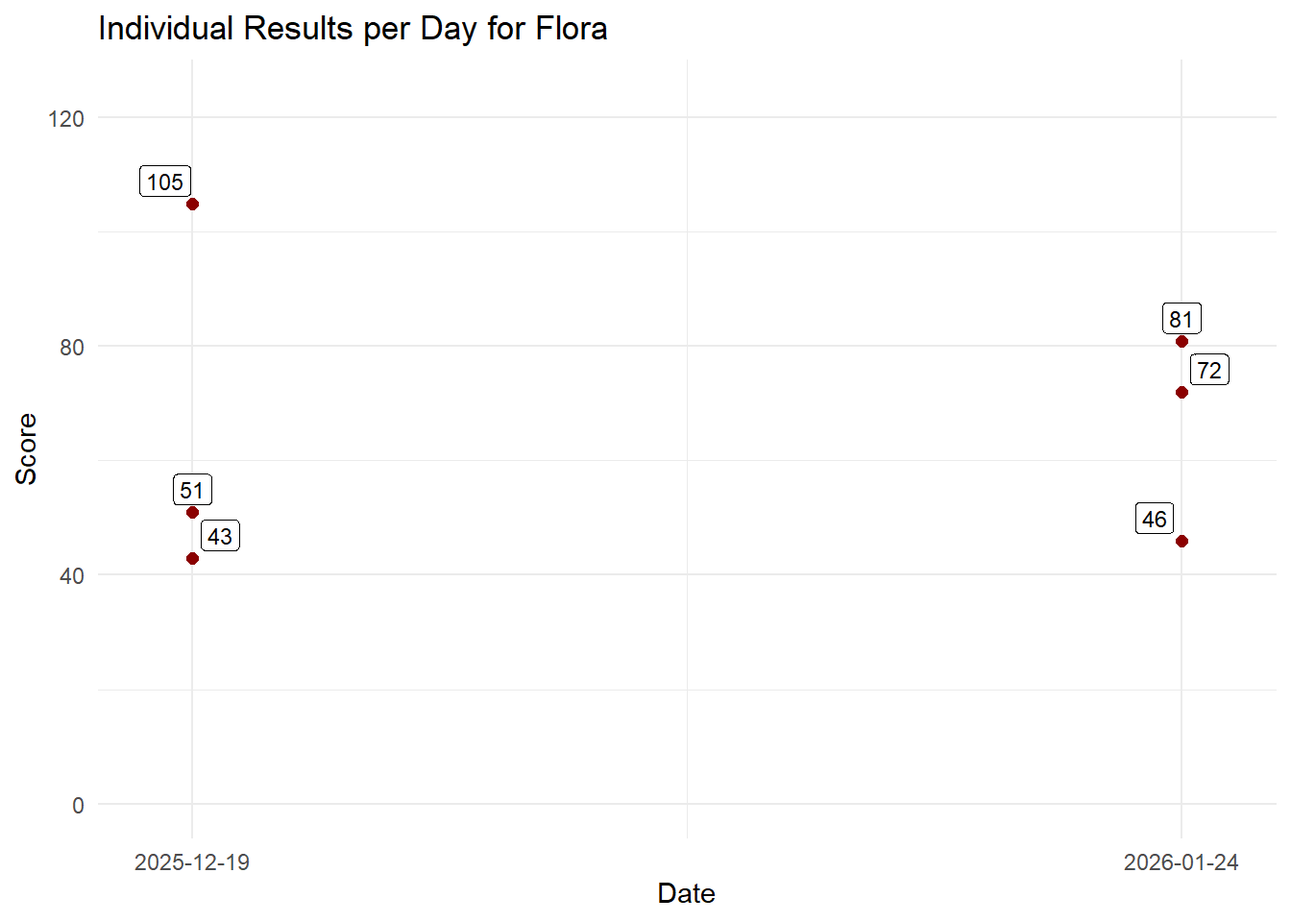
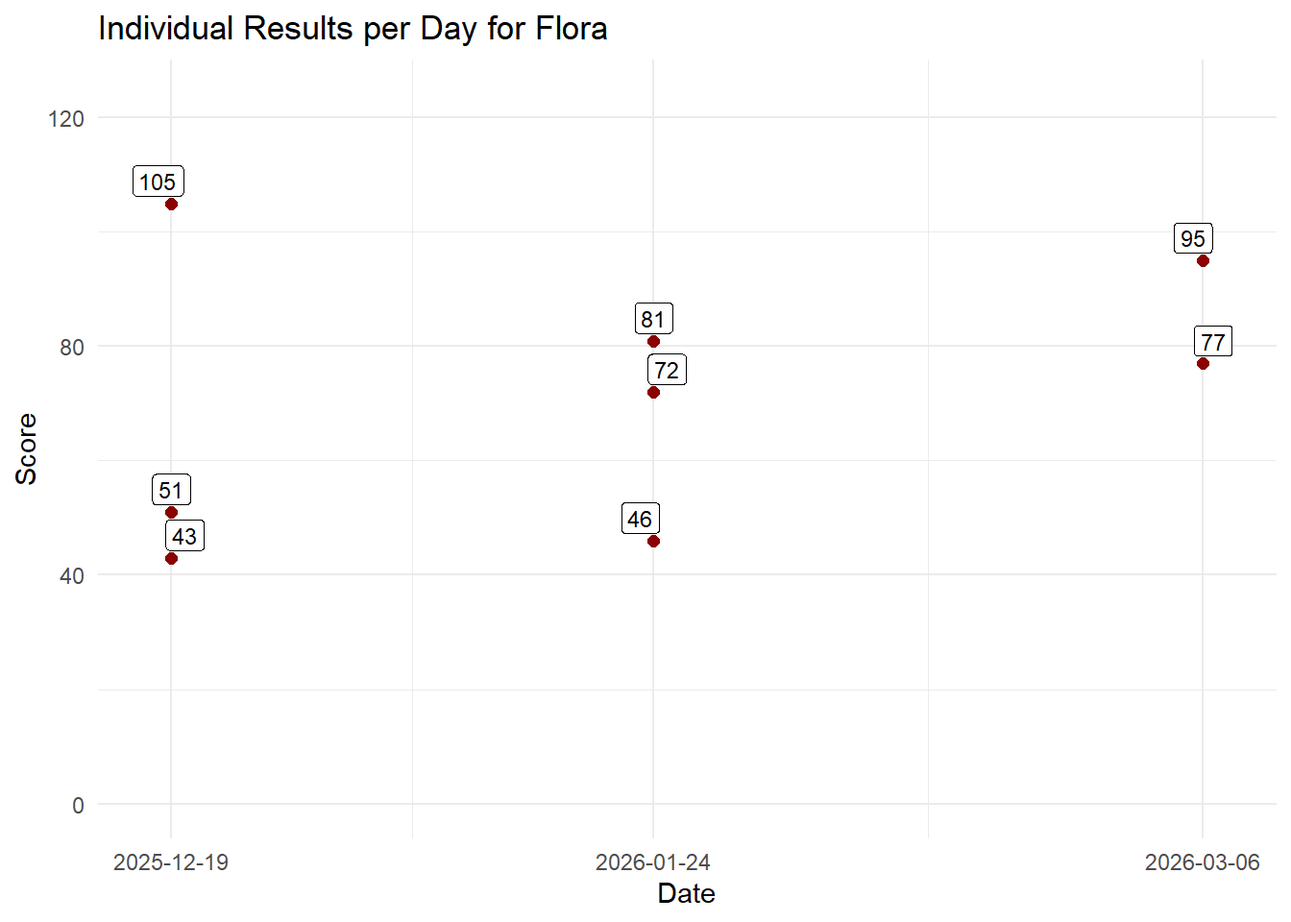
updated with results from march 3rd 2026

diff --git a/docs/sessions.html b/docs/sessions.html
@@ -136,6 +136,10 @@ ul.task-list li input[type="checkbox"] {
 <span class="menu-text">Julia</span></a>
   </li>  
   <li class="nav-item">
+    <a class="nav-link" href="./players/maria.html"> 
+<span class="menu-text">Maria</span></a>
+  </li>  
+  <li class="nav-item">
     <a class="nav-link" href="./players/niko.html"> 
 <span class="menu-text">Niko</span></a>
   </li>  
@@ -175,29 +179,38 @@ ul.task-list li input[type="checkbox"] {
 
 <p>The sessions are sorted from new to old.</p>
 <section id="section" class="level2">
-<h2 class="anchored" data-anchor-id="section">07.02.2026</h2>
+<h2 class="anchored" data-anchor-id="section">06.03.2026</h2>
 <div class="cell">
 <div class="cell-output-display">
-<div class="datatables html-widget html-fill-item" id="htmlwidget-451b7fa52ce0093a3e28" style="width:100%;height:auto;"></div>
-<script type="application/json" data-for="htmlwidget-451b7fa52ce0093a3e28">{"x":{"filter":"none","vertical":false,"data":[["1","2","3","4"],["Niko","Anatolii","Julia","Daniel"],[81,71,63,49],[124,74,68,82],[82,81,70,59],[95.7,75.3,67,63.3],[24.5,5.1,3.6,16.9],[2,2,0,0]],"container":"<table class=\"display\">\n  <thead>\n    <tr>\n      <th> <\/th>\n      <th>Player<\/th>\n      <th>Round 1<\/th>\n      <th>Round 2<\/th>\n      <th>Round 3<\/th>\n      <th>Average Score<\/th>\n      <th>Score Standard Deviation<\/th>\n      <th>Strikes<\/th>\n    <\/tr>\n  <\/thead>\n<\/table>","options":{"dom":"t","paging":false,"searching":false,"info":false,"lengthChange":false,"columnDefs":[{"orderSequence":["desc","asc"],"targets":"_all"},{"className":"dt-right","targets":[2,3,4,5,6,7]},{"orderable":false,"targets":0},{"name":" ","targets":0},{"name":"Player","targets":1},{"name":"Round 1","targets":2},{"name":"Round 2","targets":3},{"name":"Round 3","targets":4},{"name":"Average Score","targets":5},{"name":"Score Standard Deviation","targets":6},{"name":"Strikes","targets":7}],"order":[],"autoWidth":false,"orderClasses":false}},"evals":[],"jsHooks":[]}</script>
+<div class="datatables html-widget html-fill-item" id="htmlwidget-83ca4fffd3bae11e1f9b" style="width:100%;height:auto;"></div>
+<script type="application/json" data-for="htmlwidget-83ca4fffd3bae11e1f9b">{"x":{"filter":"none","vertical":false,"data":[["1","2","3","4"],["Flora","Julia","Daniel","Maria"],[95,45,57,58],[77,64,50,38],[86,54.5,53.5,48],[12.7,13.4,4.9,14.1],[2,0,1,0]],"container":"<table class=\"display\">\n  <thead>\n    <tr>\n      <th> <\/th>\n      <th>Player<\/th>\n      <th>Round 1<\/th>\n      <th>Round 2<\/th>\n      <th>Average Score<\/th>\n      <th>Score Standard Deviation<\/th>\n      <th>Strikes<\/th>\n    <\/tr>\n  <\/thead>\n<\/table>","options":{"dom":"t","paging":false,"searching":false,"info":false,"lengthChange":false,"columnDefs":[{"orderSequence":["desc","asc"],"targets":"_all"},{"className":"dt-right","targets":[2,3,4,5,6]},{"orderable":false,"targets":0},{"name":" ","targets":0},{"name":"Player","targets":1},{"name":"Round 1","targets":2},{"name":"Round 2","targets":3},{"name":"Average Score","targets":4},{"name":"Score Standard Deviation","targets":5},{"name":"Strikes","targets":6}],"order":[],"autoWidth":false,"orderClasses":false}},"evals":[],"jsHooks":[]}</script>
 </div>
 </div>
 </section>
 <section id="section-1" class="level2">
-<h2 class="anchored" data-anchor-id="section-1">24.01.2026</h2>
+<h2 class="anchored" data-anchor-id="section-1">07.02.2026</h2>
 <div class="cell">
 <div class="cell-output-display">
-<div class="datatables html-widget html-fill-item" id="htmlwidget-5ad655e97ea06177efaf" style="width:100%;height:auto;"></div>
-<script type="application/json" data-for="htmlwidget-5ad655e97ea06177efaf">{"x":{"filter":"none","vertical":false,"data":[["1","2","3","4","5"],["Niko","Anatolii","Daniel","Julia","Flora"],[73,73,82,65,46],[101,70,54,81,81],[86,71,75,64,72],[86.7,71.3,70.3,70,66.3],[14,1.5,14.6,9.5,18.2],[2,2,0,3,1]],"container":"<table class=\"display\">\n  <thead>\n    <tr>\n      <th> <\/th>\n      <th>Player<\/th>\n      <th>Round 1<\/th>\n      <th>Round 2<\/th>\n      <th>Round 3<\/th>\n      <th>Average Score<\/th>\n      <th>Score Standard Deviation<\/th>\n      <th>Strikes<\/th>\n    <\/tr>\n  <\/thead>\n<\/table>","options":{"dom":"t","paging":false,"searching":false,"info":false,"lengthChange":false,"columnDefs":[{"orderSequence":["desc","asc"],"targets":"_all"},{"className":"dt-right","targets":[2,3,4,5,6,7]},{"orderable":false,"targets":0},{"name":" ","targets":0},{"name":"Player","targets":1},{"name":"Round 1","targets":2},{"name":"Round 2","targets":3},{"name":"Round 3","targets":4},{"name":"Average Score","targets":5},{"name":"Score Standard Deviation","targets":6},{"name":"Strikes","targets":7}],"order":[],"autoWidth":false,"orderClasses":false}},"evals":[],"jsHooks":[]}</script>
+<div class="datatables html-widget html-fill-item" id="htmlwidget-dc3dbd8230154e09d8fd" style="width:100%;height:auto;"></div>
+<script type="application/json" data-for="htmlwidget-dc3dbd8230154e09d8fd">{"x":{"filter":"none","vertical":false,"data":[["1","2","3","4"],["Niko","Anatolii","Julia","Daniel"],[81,71,63,49],[124,74,68,82],[82,81,70,59],[95.7,75.3,67,63.3],[24.5,5.1,3.6,16.9],[2,2,0,0]],"container":"<table class=\"display\">\n  <thead>\n    <tr>\n      <th> <\/th>\n      <th>Player<\/th>\n      <th>Round 1<\/th>\n      <th>Round 2<\/th>\n      <th>Round 3<\/th>\n      <th>Average Score<\/th>\n      <th>Score Standard Deviation<\/th>\n      <th>Strikes<\/th>\n    <\/tr>\n  <\/thead>\n<\/table>","options":{"dom":"t","paging":false,"searching":false,"info":false,"lengthChange":false,"columnDefs":[{"orderSequence":["desc","asc"],"targets":"_all"},{"className":"dt-right","targets":[2,3,4,5,6,7]},{"orderable":false,"targets":0},{"name":" ","targets":0},{"name":"Player","targets":1},{"name":"Round 1","targets":2},{"name":"Round 2","targets":3},{"name":"Round 3","targets":4},{"name":"Average Score","targets":5},{"name":"Score Standard Deviation","targets":6},{"name":"Strikes","targets":7}],"order":[],"autoWidth":false,"orderClasses":false}},"evals":[],"jsHooks":[]}</script>
 </div>
 </div>
 </section>
 <section id="section-2" class="level2">
-<h2 class="anchored" data-anchor-id="section-2">19.12.2025</h2>
+<h2 class="anchored" data-anchor-id="section-2">24.01.2026</h2>
 <div class="cell">
 <div class="cell-output-display">
-<div class="datatables html-widget html-fill-item" id="htmlwidget-06abafb8ae99760b7fad" style="width:100%;height:auto;"></div>
-<script type="application/json" data-for="htmlwidget-06abafb8ae99760b7fad">{"x":{"filter":"none","vertical":false,"data":[["1","2","3","4","5"],["Niko","Anatolii","Julia","Flora","Daniel"],[73,61,66,105,48],[97,79,79,51,77],[90,101,79,43,49],[86.7,80.3,74.7,66.3,58],[12.3,20,7.5,33.7,16.5],[3,2,0,2,1]],"container":"<table class=\"display\">\n  <thead>\n    <tr>\n      <th> <\/th>\n      <th>Player<\/th>\n      <th>Round 1<\/th>\n      <th>Round 2<\/th>\n      <th>Round 3<\/th>\n      <th>Average Score<\/th>\n      <th>Score Standard Deviation<\/th>\n      <th>Strikes<\/th>\n    <\/tr>\n  <\/thead>\n<\/table>","options":{"dom":"t","paging":false,"searching":false,"info":false,"lengthChange":false,"columnDefs":[{"orderSequence":["desc","asc"],"targets":"_all"},{"className":"dt-right","targets":[2,3,4,5,6,7]},{"orderable":false,"targets":0},{"name":" ","targets":0},{"name":"Player","targets":1},{"name":"Round 1","targets":2},{"name":"Round 2","targets":3},{"name":"Round 3","targets":4},{"name":"Average Score","targets":5},{"name":"Score Standard Deviation","targets":6},{"name":"Strikes","targets":7}],"order":[],"autoWidth":false,"orderClasses":false}},"evals":[],"jsHooks":[]}</script>
+<div class="datatables html-widget html-fill-item" id="htmlwidget-20107ad24300d20d2195" style="width:100%;height:auto;"></div>
+<script type="application/json" data-for="htmlwidget-20107ad24300d20d2195">{"x":{"filter":"none","vertical":false,"data":[["1","2","3","4","5"],["Niko","Anatolii","Daniel","Julia","Flora"],[73,73,82,65,46],[101,70,54,81,81],[86,71,75,64,72],[86.7,71.3,70.3,70,66.3],[14,1.5,14.6,9.5,18.2],[2,2,0,3,1]],"container":"<table class=\"display\">\n  <thead>\n    <tr>\n      <th> <\/th>\n      <th>Player<\/th>\n      <th>Round 1<\/th>\n      <th>Round 2<\/th>\n      <th>Round 3<\/th>\n      <th>Average Score<\/th>\n      <th>Score Standard Deviation<\/th>\n      <th>Strikes<\/th>\n    <\/tr>\n  <\/thead>\n<\/table>","options":{"dom":"t","paging":false,"searching":false,"info":false,"lengthChange":false,"columnDefs":[{"orderSequence":["desc","asc"],"targets":"_all"},{"className":"dt-right","targets":[2,3,4,5,6,7]},{"orderable":false,"targets":0},{"name":" ","targets":0},{"name":"Player","targets":1},{"name":"Round 1","targets":2},{"name":"Round 2","targets":3},{"name":"Round 3","targets":4},{"name":"Average Score","targets":5},{"name":"Score Standard Deviation","targets":6},{"name":"Strikes","targets":7}],"order":[],"autoWidth":false,"orderClasses":false}},"evals":[],"jsHooks":[]}</script>
+</div>
+</div>
+</section>
+<section id="section-3" class="level2">
+<h2 class="anchored" data-anchor-id="section-3">19.12.2025</h2>
+<div class="cell">
+<div class="cell-output-display">
+<div class="datatables html-widget html-fill-item" id="htmlwidget-5a49792ca533fc8ac178" style="width:100%;height:auto;"></div>
+<script type="application/json" data-for="htmlwidget-5a49792ca533fc8ac178">{"x":{"filter":"none","vertical":false,"data":[["1","2","3","4","5"],["Niko","Anatolii","Julia","Flora","Daniel"],[73,61,66,105,48],[97,79,79,51,77],[90,101,79,43,49],[86.7,80.3,74.7,66.3,58],[12.3,20,7.5,33.7,16.5],[3,2,0,2,1]],"container":"<table class=\"display\">\n  <thead>\n    <tr>\n      <th> <\/th>\n      <th>Player<\/th>\n      <th>Round 1<\/th>\n      <th>Round 2<\/th>\n      <th>Round 3<\/th>\n      <th>Average Score<\/th>\n      <th>Score Standard Deviation<\/th>\n      <th>Strikes<\/th>\n    <\/tr>\n  <\/thead>\n<\/table>","options":{"dom":"t","paging":false,"searching":false,"info":false,"lengthChange":false,"columnDefs":[{"orderSequence":["desc","asc"],"targets":"_all"},{"className":"dt-right","targets":[2,3,4,5,6,7]},{"orderable":false,"targets":0},{"name":" ","targets":0},{"name":"Player","targets":1},{"name":"Round 1","targets":2},{"name":"Round 2","targets":3},{"name":"Round 3","targets":4},{"name":"Average Score","targets":5},{"name":"Score Standard Deviation","targets":6},{"name":"Strikes","targets":7}],"order":[],"autoWidth":false,"orderClasses":false}},"evals":[],"jsHooks":[]}</script>
 </div>
 </div>
 

diff --git a/docs/players/maria.html b/docs/players/maria.html
@@ -7,7 +7,7 @@
 <meta name="viewport" content="width=device-width, initial-scale=1.0, user-scalable=yes">
 
 
-<title>Anatolii – Bowling Stats</title>
+<title>Maria – Bowling Stats</title>
 <style>
 code{white-space: pre-wrap;}
 span.smallcaps{font-variant: small-caps;}
@@ -118,7 +118,7 @@ ul.task-list li input[type="checkbox"] {
 <span class="menu-text">Sessions</span></a>
   </li>  
   <li class="nav-item">
-    <a class="nav-link active" href="../players/anatolii.html" aria-current="page"> 
+    <a class="nav-link" href="../players/anatolii.html"> 
 <span class="menu-text">Anatolii</span></a>
   </li>  
   <li class="nav-item">
@@ -134,7 +134,7 @@ ul.task-list li input[type="checkbox"] {
 <span class="menu-text">Julia</span></a>
   </li>  
   <li class="nav-item">
-    <a class="nav-link" href="../players/maria.html"> 
+    <a class="nav-link active" href="../players/maria.html" aria-current="page"> 
 <span class="menu-text">Maria</span></a>
   </li>  
   <li class="nav-item">
@@ -158,7 +158,7 @@ ul.task-list li input[type="checkbox"] {
 
 <header id="title-block-header" class="quarto-title-block default">
 <div class="quarto-title">
-<h1 class="title">Anatolii</h1>
+<h1 class="title">Maria</h1>
 </div>
 
 
@@ -179,8 +179,8 @@ ul.task-list li input[type="checkbox"] {
 <h2 class="anchored" data-anchor-id="stats-overview">Stats Overview</h2>
 <div class="cell">
 <div class="cell-output-display">
-<div class="datatables html-widget html-fill-item" id="htmlwidget-e65abe17cf19ae985a21" style="width:100%;height:auto;"></div>
-<script type="application/json" data-for="htmlwidget-e65abe17cf19ae985a21">{"x":{"filter":"none","vertical":false,"data":[[9],[101],[61],[75.7],[11.1],[0.7]],"container":"<table class=\"display\">\n  <thead>\n    <tr>\n      <th>Total Rounds Played<\/th>\n      <th>Highest Score<\/th>\n      <th>Lowest Score<\/th>\n      <th>Average Score<\/th>\n      <th>Score Standard Deviation<\/th>\n      <th>Strikes/ Game<\/th>\n    <\/tr>\n  <\/thead>\n<\/table>","options":{"dom":"t","paging":false,"searching":false,"info":false,"lengthChange":false,"columnDefs":[{"className":"dt-right","targets":[0,1,2,3,4,5]},{"name":"Total Rounds Played","targets":0},{"name":"Highest Score","targets":1},{"name":"Lowest Score","targets":2},{"name":"Average Score","targets":3},{"name":"Score Standard Deviation","targets":4},{"name":"Strikes/ Game","targets":5}],"order":[],"autoWidth":false,"orderClasses":false}},"evals":[],"jsHooks":[]}</script>
+<div class="datatables html-widget html-fill-item" id="htmlwidget-6bd25f7b8d6e1d00960f" style="width:100%;height:auto;"></div>
+<script type="application/json" data-for="htmlwidget-6bd25f7b8d6e1d00960f">{"x":{"filter":"none","vertical":false,"data":[[2],[58],[38],[48],[14.1],[0]],"container":"<table class=\"display\">\n  <thead>\n    <tr>\n      <th>Total Rounds Played<\/th>\n      <th>Highest Score<\/th>\n      <th>Lowest Score<\/th>\n      <th>Average Score<\/th>\n      <th>Score Standard Deviation<\/th>\n      <th>Strikes/ Game<\/th>\n    <\/tr>\n  <\/thead>\n<\/table>","options":{"dom":"t","paging":false,"searching":false,"info":false,"lengthChange":false,"columnDefs":[{"className":"dt-right","targets":[0,1,2,3,4,5]},{"name":"Total Rounds Played","targets":0},{"name":"Highest Score","targets":1},{"name":"Lowest Score","targets":2},{"name":"Average Score","targets":3},{"name":"Score Standard Deviation","targets":4},{"name":"Strikes/ Game","targets":5}],"order":[],"autoWidth":false,"orderClasses":false}},"evals":[],"jsHooks":[]}</script>
 </div>
 </div>
 </section>
@@ -190,7 +190,7 @@ ul.task-list li input[type="checkbox"] {
 <div class="cell-output-display">
 <div>
 <figure class="figure">
-<p><img src="anatolii_files/figure-html/unnamed-chunk-2-1.png" class="img-fluid figure-img" width="672"></p>
+<p><img src="maria_files/figure-html/unnamed-chunk-2-1.png" class="img-fluid figure-img" width="672"></p>
 </figure>
 </div>
 </div>
@@ -202,7 +202,7 @@ ul.task-list li input[type="checkbox"] {
 <div class="cell-output-display">
 <div>
 <figure class="figure">
-<p><img src="anatolii_files/figure-html/unnamed-chunk-3-1.png" class="img-fluid figure-img" width="672"></p>
+<p><img src="maria_files/figure-html/unnamed-chunk-3-1.png" class="img-fluid figure-img" width="672"></p>
 </figure>
 </div>
 </div>

diff --git a/docs/index.html b/docs/index.html
@@ -136,6 +136,10 @@ ul.task-list li input[type="checkbox"] {
 <span class="menu-text">Julia</span></a>
   </li>  
   <li class="nav-item">
+    <a class="nav-link" href="./players/maria.html"> 
+<span class="menu-text">Maria</span></a>
+  </li>  
+  <li class="nav-item">
     <a class="nav-link" href="./players/niko.html"> 
 <span class="menu-text">Niko</span></a>
   </li>  
@@ -175,8 +179,8 @@ ul.task-list li input[type="checkbox"] {
 
 <div class="cell">
 <div class="cell-output-display">
-<div class="datatables html-widget html-fill-item" id="htmlwidget-2dc484cc56245abd1d54" style="width:100%;height:auto;"></div>
-<script type="application/json" data-for="htmlwidget-2dc484cc56245abd1d54">{"x":{"filter":"none","vertical":false,"data":[["1","2","3","4","5"],["Niko","Anatolii","Julia","Flora","Daniel"],[9,9,9,6,9],[89.7,75.7,70.59999999999999,66.3,63.9],[124,101,81,105,82],[73,61,63,43,48],[16.1,11.1,7.2,24.2,14.9],[0.8,0.7,0.3,0.5,0.1]],"container":"<table class=\"display\">\n  <thead>\n    <tr>\n      <th> <\/th>\n      <th>Player<\/th>\n      <th>Total Rounds Played<\/th>\n      <th>Average Score<\/th>\n      <th>Best Score<\/th>\n      <th>Worst Score<\/th>\n      <th>Score Standard Deviation<\/th>\n      <th>Strikes/ Game<\/th>\n    <\/tr>\n  <\/thead>\n<\/table>","options":{"dom":"t","paging":false,"searching":false,"info":false,"lengthChange":false,"columnDefs":[{"orderSequence":["desc","asc"],"targets":"_all"},{"className":"dt-right","targets":[2,3,4,5,6,7]},{"orderable":false,"targets":0},{"name":" ","targets":0},{"name":"Player","targets":1},{"name":"Total Rounds Played","targets":2},{"name":"Average Score","targets":3},{"name":"Best Score","targets":4},{"name":"Worst Score","targets":5},{"name":"Score Standard Deviation","targets":6},{"name":"Strikes/ Game","targets":7}],"order":[],"autoWidth":false,"orderClasses":false}},"evals":[],"jsHooks":[]}</script>
+<div class="datatables html-widget html-fill-item" id="htmlwidget-ad7d13aa25195f9eefb1" style="width:100%;height:auto;"></div>
+<script type="application/json" data-for="htmlwidget-ad7d13aa25195f9eefb1">{"x":{"filter":"none","vertical":false,"data":[["1","2","3","4","5","6"],["Niko","Anatolii","Flora","Julia","Daniel","Maria"],[9,9,8,11,11,2],[89.7,75.7,71.2,67.59999999999999,62,48],[124,101,105,81,82,58],[73,61,43,45,48,38],[16.1,11.1,22.9,10.1,14,14.1],[0.8,0.7,0.6,0.3,0.2,0]],"container":"<table class=\"display\">\n  <thead>\n    <tr>\n      <th> <\/th>\n      <th>Player<\/th>\n      <th>Total Rounds Played<\/th>\n      <th>Average Score<\/th>\n      <th>Best Score<\/th>\n      <th>Worst Score<\/th>\n      <th>Score Standard Deviation<\/th>\n      <th>Strikes/ Game<\/th>\n    <\/tr>\n  <\/thead>\n<\/table>","options":{"dom":"t","paging":false,"searching":false,"info":false,"lengthChange":false,"columnDefs":[{"orderSequence":["desc","asc"],"targets":"_all"},{"className":"dt-right","targets":[2,3,4,5,6,7]},{"orderable":false,"targets":0},{"name":" ","targets":0},{"name":"Player","targets":1},{"name":"Total Rounds Played","targets":2},{"name":"Average Score","targets":3},{"name":"Best Score","targets":4},{"name":"Worst Score","targets":5},{"name":"Score Standard Deviation","targets":6},{"name":"Strikes/ Game","targets":7}],"order":[],"autoWidth":false,"orderClasses":false}},"evals":[],"jsHooks":[]}</script>
 </div>
 </div>
 

diff --git a/docs/players/niko.html b/docs/players/niko.html
@@ -134,6 +134,10 @@ ul.task-list li input[type="checkbox"] {
 <span class="menu-text">Julia</span></a>
   </li>  
   <li class="nav-item">
+    <a class="nav-link" href="../players/maria.html"> 
+<span class="menu-text">Maria</span></a>
+  </li>  
+  <li class="nav-item">
     <a class="nav-link active" href="../players/niko.html" aria-current="page"> 
 <span class="menu-text">Niko</span></a>
   </li>  
@@ -175,8 +179,8 @@ ul.task-list li input[type="checkbox"] {
 <h2 class="anchored" data-anchor-id="stats-overview">Stats Overview</h2>
 <div class="cell">
 <div class="cell-output-display">
-<div class="datatables html-widget html-fill-item" id="htmlwidget-5b850f4a2d43436e10e2" style="width:100%;height:auto;"></div>
-<script type="application/json" data-for="htmlwidget-5b850f4a2d43436e10e2">{"x":{"filter":"none","vertical":false,"data":[[9],[124],[73],[89.7],[16.1],[0.8]],"container":"<table class=\"display\">\n  <thead>\n    <tr>\n      <th>Total Rounds Played<\/th>\n      <th>Highest Score<\/th>\n      <th>Lowest Score<\/th>\n      <th>Average Score<\/th>\n      <th>Score Standard Deviation<\/th>\n      <th>Strikes/ Game<\/th>\n    <\/tr>\n  <\/thead>\n<\/table>","options":{"dom":"t","paging":false,"searching":false,"info":false,"lengthChange":false,"columnDefs":[{"className":"dt-right","targets":[0,1,2,3,4,5]},{"name":"Total Rounds Played","targets":0},{"name":"Highest Score","targets":1},{"name":"Lowest Score","targets":2},{"name":"Average Score","targets":3},{"name":"Score Standard Deviation","targets":4},{"name":"Strikes/ Game","targets":5}],"order":[],"autoWidth":false,"orderClasses":false}},"evals":[],"jsHooks":[]}</script>
+<div class="datatables html-widget html-fill-item" id="htmlwidget-aebb1a9a45ee5998be23" style="width:100%;height:auto;"></div>
+<script type="application/json" data-for="htmlwidget-aebb1a9a45ee5998be23">{"x":{"filter":"none","vertical":false,"data":[[9],[124],[73],[89.7],[16.1],[0.8]],"container":"<table class=\"display\">\n  <thead>\n    <tr>\n      <th>Total Rounds Played<\/th>\n      <th>Highest Score<\/th>\n      <th>Lowest Score<\/th>\n      <th>Average Score<\/th>\n      <th>Score Standard Deviation<\/th>\n      <th>Strikes/ Game<\/th>\n    <\/tr>\n  <\/thead>\n<\/table>","options":{"dom":"t","paging":false,"searching":false,"info":false,"lengthChange":false,"columnDefs":[{"className":"dt-right","targets":[0,1,2,3,4,5]},{"name":"Total Rounds Played","targets":0},{"name":"Highest Score","targets":1},{"name":"Lowest Score","targets":2},{"name":"Average Score","targets":3},{"name":"Score Standard Deviation","targets":4},{"name":"Strikes/ Game","targets":5}],"order":[],"autoWidth":false,"orderClasses":false}},"evals":[],"jsHooks":[]}</script>
 </div>
 </div>
 </section>

diff --git a/docs/players/julia.html b/docs/players/julia.html
@@ -134,6 +134,10 @@ ul.task-list li input[type="checkbox"] {
 <span class="menu-text">Julia</span></a>
   </li>  
   <li class="nav-item">
+    <a class="nav-link" href="../players/maria.html"> 
+<span class="menu-text">Maria</span></a>
+  </li>  
+  <li class="nav-item">
     <a class="nav-link" href="../players/niko.html"> 
 <span class="menu-text">Niko</span></a>
   </li>  
@@ -175,8 +179,8 @@ ul.task-list li input[type="checkbox"] {
 <h2 class="anchored" data-anchor-id="stats-overview">Stats Overview</h2>
 <div class="cell">
 <div class="cell-output-display">
-<div class="datatables html-widget html-fill-item" id="htmlwidget-b8df6499a0a86f296850" style="width:100%;height:auto;"></div>
-<script type="application/json" data-for="htmlwidget-b8df6499a0a86f296850">{"x":{"filter":"none","vertical":false,"data":[[9],[81],[63],[70.59999999999999],[7.2],[0.3]],"container":"<table class=\"display\">\n  <thead>\n    <tr>\n      <th>Total Rounds Played<\/th>\n      <th>Highest Score<\/th>\n      <th>Lowest Score<\/th>\n      <th>Average Score<\/th>\n      <th>Score Standard Deviation<\/th>\n      <th>Strikes/ Game<\/th>\n    <\/tr>\n  <\/thead>\n<\/table>","options":{"dom":"t","paging":false,"searching":false,"info":false,"lengthChange":false,"columnDefs":[{"className":"dt-right","targets":[0,1,2,3,4,5]},{"name":"Total Rounds Played","targets":0},{"name":"Highest Score","targets":1},{"name":"Lowest Score","targets":2},{"name":"Average Score","targets":3},{"name":"Score Standard Deviation","targets":4},{"name":"Strikes/ Game","targets":5}],"order":[],"autoWidth":false,"orderClasses":false}},"evals":[],"jsHooks":[]}</script>
+<div class="datatables html-widget html-fill-item" id="htmlwidget-b5e6d4e3071d5a756ec0" style="width:100%;height:auto;"></div>
+<script type="application/json" data-for="htmlwidget-b5e6d4e3071d5a756ec0">{"x":{"filter":"none","vertical":false,"data":[[11],[81],[45],[67.59999999999999],[10.1],[0.3]],"container":"<table class=\"display\">\n  <thead>\n    <tr>\n      <th>Total Rounds Played<\/th>\n      <th>Highest Score<\/th>\n      <th>Lowest Score<\/th>\n      <th>Average Score<\/th>\n      <th>Score Standard Deviation<\/th>\n      <th>Strikes/ Game<\/th>\n    <\/tr>\n  <\/thead>\n<\/table>","options":{"dom":"t","paging":false,"searching":false,"info":false,"lengthChange":false,"columnDefs":[{"className":"dt-right","targets":[0,1,2,3,4,5]},{"name":"Total Rounds Played","targets":0},{"name":"Highest Score","targets":1},{"name":"Lowest Score","targets":2},{"name":"Average Score","targets":3},{"name":"Score Standard Deviation","targets":4},{"name":"Strikes/ Game","targets":5}],"order":[],"autoWidth":false,"orderClasses":false}},"evals":[],"jsHooks":[]}</script>
 </div>
 </div>
 </section>

diff --git a/docs/players/flora.html b/docs/players/flora.html
@@ -134,6 +134,10 @@ ul.task-list li input[type="checkbox"] {
 <span class="menu-text">Julia</span></a>
   </li>  
   <li class="nav-item">
+    <a class="nav-link" href="../players/maria.html"> 
+<span class="menu-text">Maria</span></a>
+  </li>  
+  <li class="nav-item">
     <a class="nav-link" href="../players/niko.html"> 
 <span class="menu-text">Niko</span></a>
   </li>  
@@ -175,8 +179,8 @@ ul.task-list li input[type="checkbox"] {
 <h2 class="anchored" data-anchor-id="stats-overview">Stats Overview</h2>
 <div class="cell">
 <div class="cell-output-display">
-<div class="datatables html-widget html-fill-item" id="htmlwidget-3155a61ddbbb7085ca68" style="width:100%;height:auto;"></div>
-<script type="application/json" data-for="htmlwidget-3155a61ddbbb7085ca68">{"x":{"filter":"none","vertical":false,"data":[[6],[105],[43],[66.3],[24.2],[0.5]],"container":"<table class=\"display\">\n  <thead>\n    <tr>\n      <th>Total Rounds Played<\/th>\n      <th>Highest Score<\/th>\n      <th>Lowest Score<\/th>\n      <th>Average Score<\/th>\n      <th>Score Standard Deviation<\/th>\n      <th>Strikes/ Game<\/th>\n    <\/tr>\n  <\/thead>\n<\/table>","options":{"dom":"t","paging":false,"searching":false,"info":false,"lengthChange":false,"columnDefs":[{"className":"dt-right","targets":[0,1,2,3,4,5]},{"name":"Total Rounds Played","targets":0},{"name":"Highest Score","targets":1},{"name":"Lowest Score","targets":2},{"name":"Average Score","targets":3},{"name":"Score Standard Deviation","targets":4},{"name":"Strikes/ Game","targets":5}],"order":[],"autoWidth":false,"orderClasses":false}},"evals":[],"jsHooks":[]}</script>
+<div class="datatables html-widget html-fill-item" id="htmlwidget-d4797e32ea38f14a90d8" style="width:100%;height:auto;"></div>
+<script type="application/json" data-for="htmlwidget-d4797e32ea38f14a90d8">{"x":{"filter":"none","vertical":false,"data":[[8],[105],[43],[71.2],[22.9],[0.6]],"container":"<table class=\"display\">\n  <thead>\n    <tr>\n      <th>Total Rounds Played<\/th>\n      <th>Highest Score<\/th>\n      <th>Lowest Score<\/th>\n      <th>Average Score<\/th>\n      <th>Score Standard Deviation<\/th>\n      <th>Strikes/ Game<\/th>\n    <\/tr>\n  <\/thead>\n<\/table>","options":{"dom":"t","paging":false,"searching":false,"info":false,"lengthChange":false,"columnDefs":[{"className":"dt-right","targets":[0,1,2,3,4,5]},{"name":"Total Rounds Played","targets":0},{"name":"Highest Score","targets":1},{"name":"Lowest Score","targets":2},{"name":"Average Score","targets":3},{"name":"Score Standard Deviation","targets":4},{"name":"Strikes/ Game","targets":5}],"order":[],"autoWidth":false,"orderClasses":false}},"evals":[],"jsHooks":[]}</script>
 </div>
 </div>
 </section>

diff --git a/docs/players/nico.html b/docs/players/nico.html
@@ -134,6 +134,10 @@ ul.task-list li input[type="checkbox"] {
 <span class="menu-text">Julia</span></a>
   </li>  
   <li class="nav-item">
+    <a class="nav-link" href="../players/maria.html"> 
+<span class="menu-text">Maria</span></a>
+  </li>  
+  <li class="nav-item">
     <a class="nav-link" href="../players/niko.html"> 
 <span class="menu-text">Niko</span></a>
   </li>  
@@ -183,8 +187,8 @@ Caused by warning in `max()`:
 ℹ Run `dplyr::last_dplyr_warnings()` to see the 1 remaining warning.</code></pre>
 </div>
 <div class="cell-output-display">
-<div class="datatables html-widget html-fill-item" id="htmlwidget-4fb61c9b11f24fcf218f" style="width:100%;height:auto;"></div>
-<script type="application/json" data-for="htmlwidget-4fb61c9b11f24fcf218f">{"x":{"filter":"none","vertical":false,"data":[[0],[null],[null],[null],[null],[null]],"container":"<table class=\"display\">\n  <thead>\n    <tr>\n      <th>Total Rounds Played<\/th>\n      <th>Highest Score<\/th>\n      <th>Lowest Score<\/th>\n      <th>Average Score<\/th>\n      <th>Score Standard Deviation<\/th>\n      <th>Strikes/ Game<\/th>\n    <\/tr>\n  <\/thead>\n<\/table>","options":{"dom":"t","paging":false,"searching":false,"info":false,"lengthChange":false,"columnDefs":[{"className":"dt-right","targets":[0,1,2,3,4,5]},{"name":"Total Rounds Played","targets":0},{"name":"Highest Score","targets":1},{"name":"Lowest Score","targets":2},{"name":"Average Score","targets":3},{"name":"Score Standard Deviation","targets":4},{"name":"Strikes/ Game","targets":5}],"order":[],"autoWidth":false,"orderClasses":false}},"evals":[],"jsHooks":[]}</script>
+<div class="datatables html-widget html-fill-item" id="htmlwidget-b7977ab7fdfbe88dd9c2" style="width:100%;height:auto;"></div>
+<script type="application/json" data-for="htmlwidget-b7977ab7fdfbe88dd9c2">{"x":{"filter":"none","vertical":false,"data":[[0],[null],[null],[null],[null],[null]],"container":"<table class=\"display\">\n  <thead>\n    <tr>\n      <th>Total Rounds Played<\/th>\n      <th>Highest Score<\/th>\n      <th>Lowest Score<\/th>\n      <th>Average Score<\/th>\n      <th>Score Standard Deviation<\/th>\n      <th>Strikes/ Game<\/th>\n    <\/tr>\n  <\/thead>\n<\/table>","options":{"dom":"t","paging":false,"searching":false,"info":false,"lengthChange":false,"columnDefs":[{"className":"dt-right","targets":[0,1,2,3,4,5]},{"name":"Total Rounds Played","targets":0},{"name":"Highest Score","targets":1},{"name":"Lowest Score","targets":2},{"name":"Average Score","targets":3},{"name":"Score Standard Deviation","targets":4},{"name":"Strikes/ Game","targets":5}],"order":[],"autoWidth":false,"orderClasses":false}},"evals":[],"jsHooks":[]}</script>
 </div>
 </div>
 </section>

diff --git a/docs/players/daniel.html b/docs/players/daniel.html
@@ -134,6 +134,10 @@ ul.task-list li input[type="checkbox"] {
 <span class="menu-text">Julia</span></a>
   </li>  
   <li class="nav-item">
+    <a class="nav-link" href="../players/maria.html"> 
+<span class="menu-text">Maria</span></a>
+  </li>  
+  <li class="nav-item">
     <a class="nav-link" href="../players/niko.html"> 
 <span class="menu-text">Niko</span></a>
   </li>  
@@ -175,8 +179,8 @@ ul.task-list li input[type="checkbox"] {
 <h2 class="anchored" data-anchor-id="stats-overview">Stats Overview</h2>
 <div class="cell">
 <div class="cell-output-display">
-<div class="datatables html-widget html-fill-item" id="htmlwidget-d418a6c8c8ad128f5e1f" style="width:100%;height:auto;"></div>
-<script type="application/json" data-for="htmlwidget-d418a6c8c8ad128f5e1f">{"x":{"filter":"none","vertical":false,"data":[[9],[82],[48],[63.9],[14.9],[0.1]],"container":"<table class=\"display\">\n  <thead>\n    <tr>\n      <th>Total Rounds Played<\/th>\n      <th>Highest Score<\/th>\n      <th>Lowest Score<\/th>\n      <th>Average Score<\/th>\n      <th>Score Standard Deviation<\/th>\n      <th>Strikes/ Game<\/th>\n    <\/tr>\n  <\/thead>\n<\/table>","options":{"dom":"t","paging":false,"searching":false,"info":false,"lengthChange":false,"columnDefs":[{"className":"dt-right","targets":[0,1,2,3,4,5]},{"name":"Total Rounds Played","targets":0},{"name":"Highest Score","targets":1},{"name":"Lowest Score","targets":2},{"name":"Average Score","targets":3},{"name":"Score Standard Deviation","targets":4},{"name":"Strikes/ Game","targets":5}],"order":[],"autoWidth":false,"orderClasses":false}},"evals":[],"jsHooks":[]}</script>
+<div class="datatables html-widget html-fill-item" id="htmlwidget-04c755f753da2be31a8e" style="width:100%;height:auto;"></div>
+<script type="application/json" data-for="htmlwidget-04c755f753da2be31a8e">{"x":{"filter":"none","vertical":false,"data":[[11],[82],[48],[62],[14],[0.2]],"container":"<table class=\"display\">\n  <thead>\n    <tr>\n      <th>Total Rounds Played<\/th>\n      <th>Highest Score<\/th>\n      <th>Lowest Score<\/th>\n      <th>Average Score<\/th>\n      <th>Score Standard Deviation<\/th>\n      <th>Strikes/ Game<\/th>\n    <\/tr>\n  <\/thead>\n<\/table>","options":{"dom":"t","paging":false,"searching":false,"info":false,"lengthChange":false,"columnDefs":[{"className":"dt-right","targets":[0,1,2,3,4,5]},{"name":"Total Rounds Played","targets":0},{"name":"Highest Score","targets":1},{"name":"Lowest Score","targets":2},{"name":"Average Score","targets":3},{"name":"Score Standard Deviation","targets":4},{"name":"Strikes/ Game","targets":5}],"order":[],"autoWidth":false,"orderClasses":false}},"evals":[],"jsHooks":[]}</script>
 </div>
 </div>
 </section>
